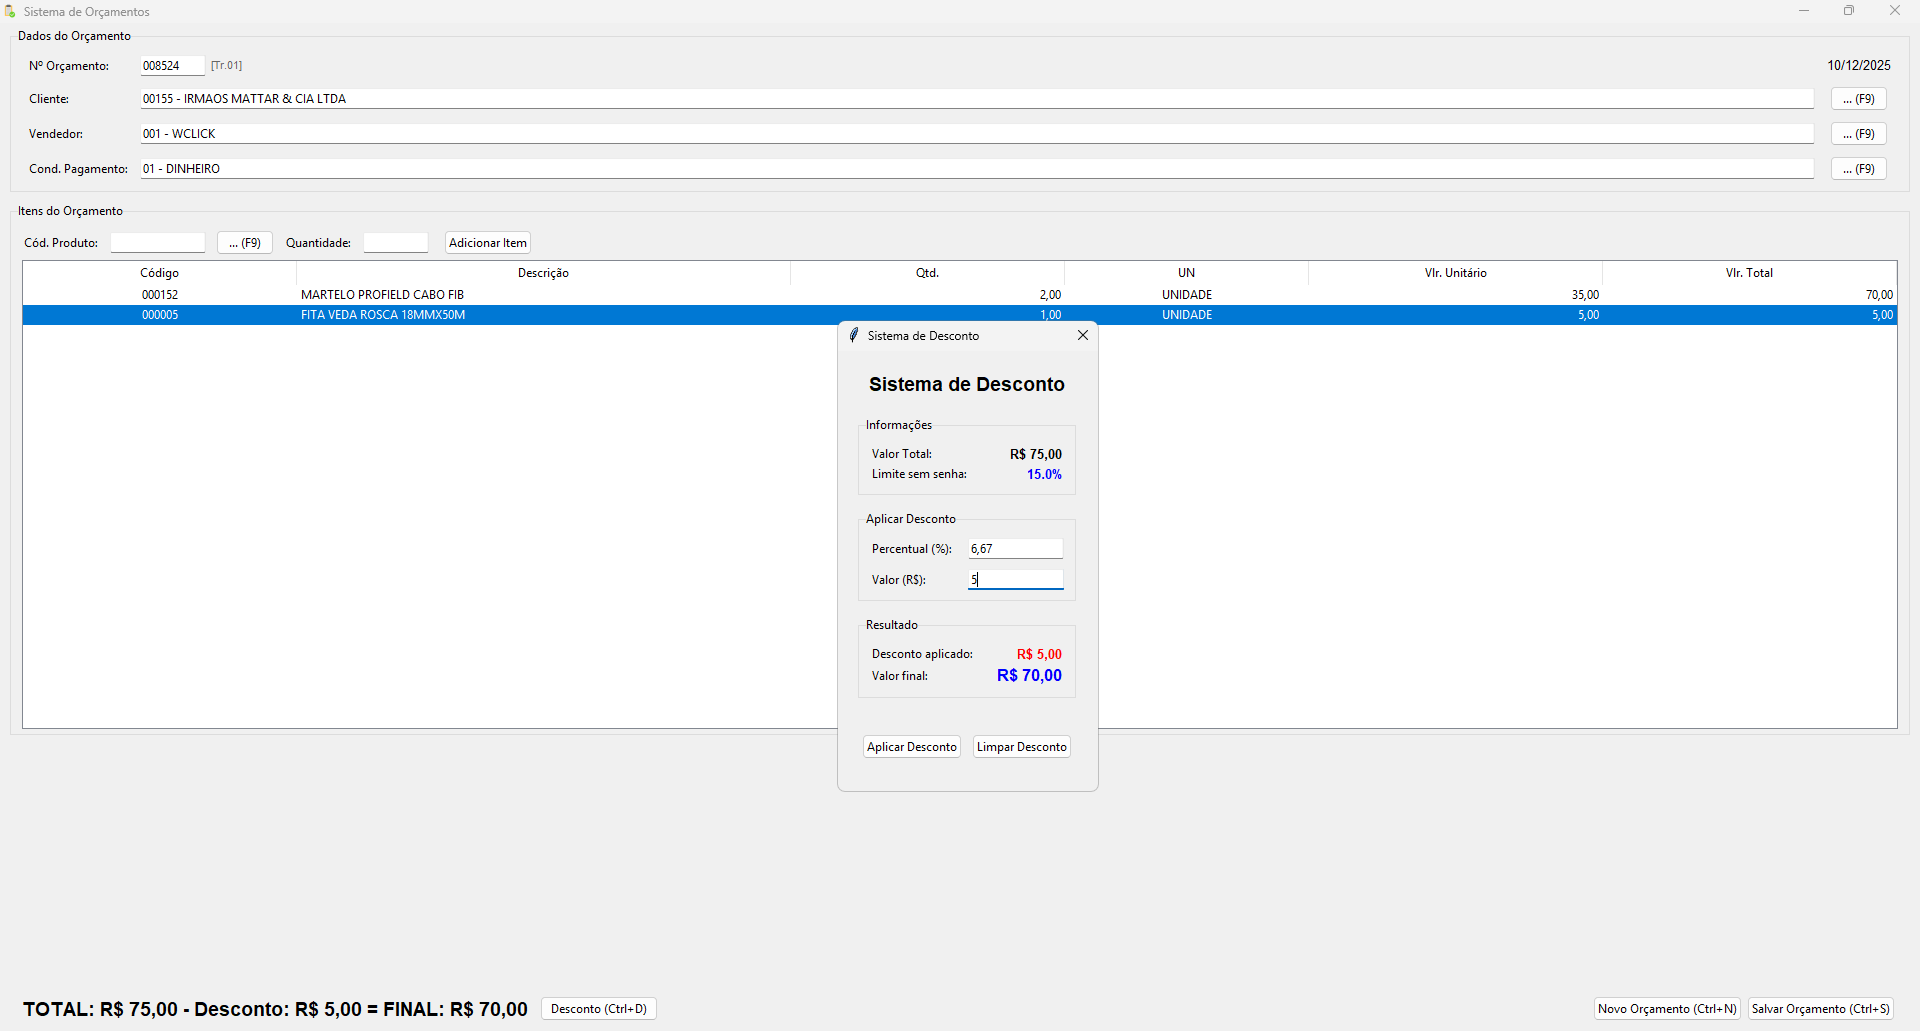
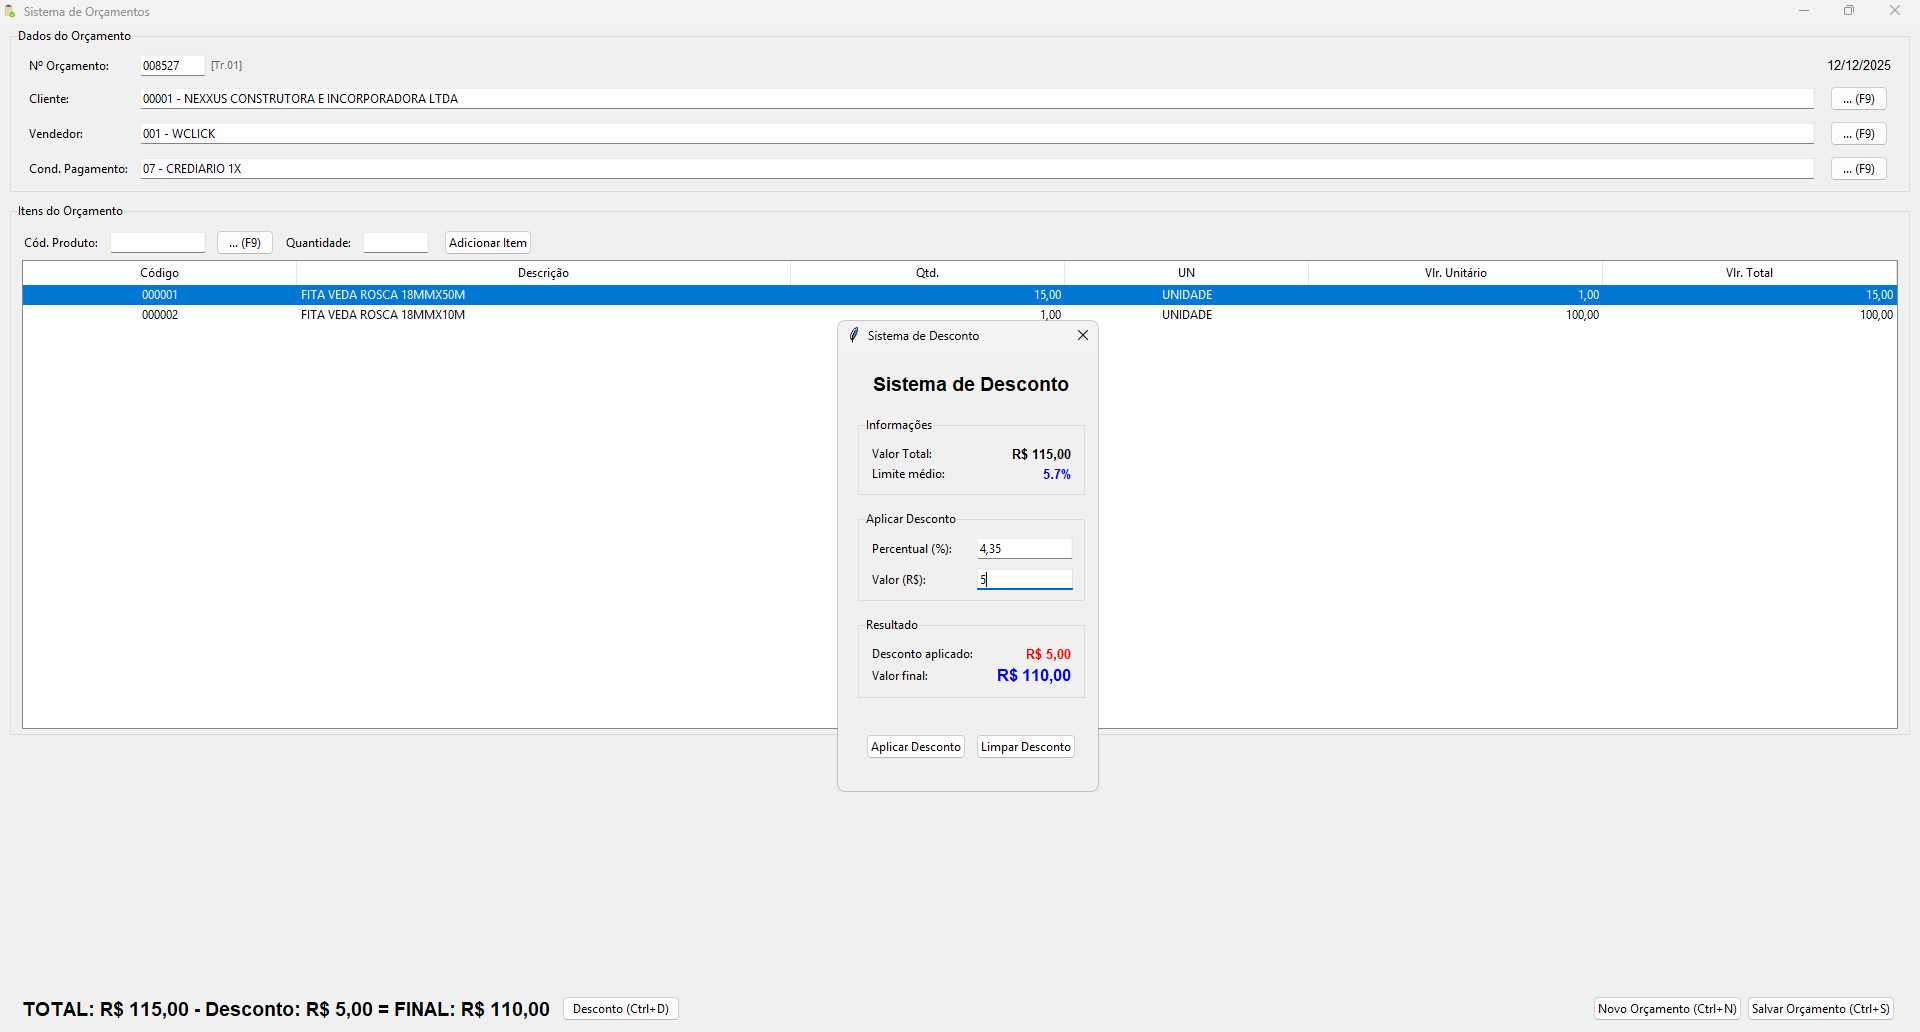
docs: readme atualizado com novas features

diff --git a/README.md b/README.md
@@ -31,9 +31,15 @@ Também poderá excluir um produto (clicando com botão direito em cima do botã
 
 Na tela de desconto, o usuário poderá definir um desconto utilizando uma porcentagem, ou o valor total do desconto. 
 
+O sistema irá calcular a média dos limites de desconto de cada produto, caso o usuário queira dar um desconto maior que o limite, o sistema irá pedir a senha personalizada cadastrada no Nucleo.
+
 O usuário também terá a opção de limpar um desconto dado anteriormente.
 
 ![tela-desconto](assets/tela-desconto.png)
+
+Se a condição de pagamento for à prazo, o sistema irá validar o limite de crédito do cliente, caso o orçamento exceda o valor de limite, será exigido a senha personalizada cadastrada no Nucleo para liberação.
+
+![tela-limite](assets/tela-limite.png)
 
 Após salvar o orçamento, o sistema irá perguntar ao usuário se deseja gerar o PDF do orçamento para impressão.
 
